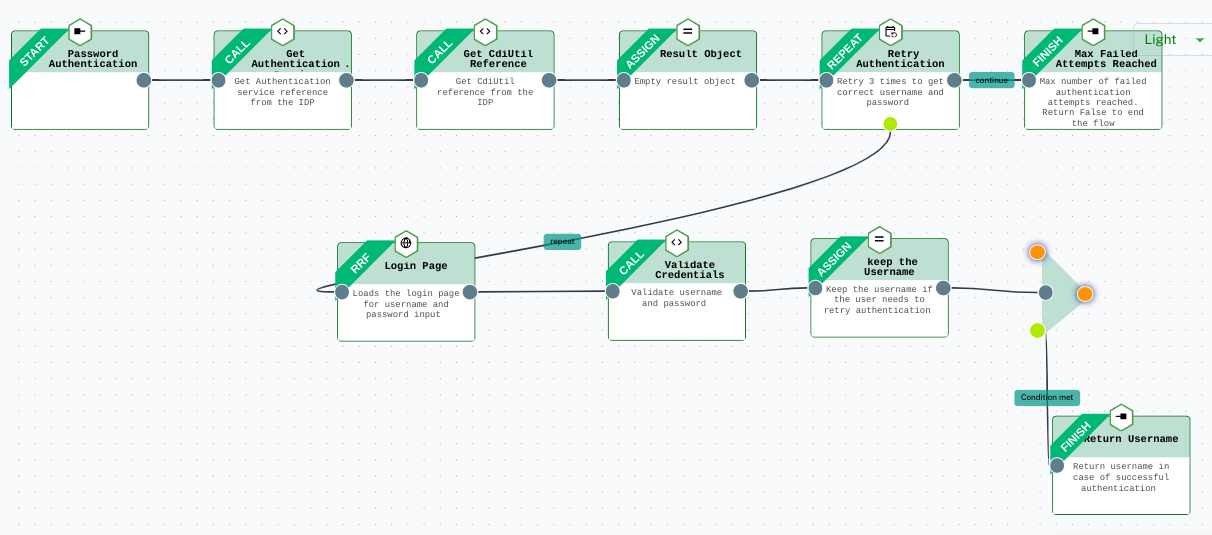
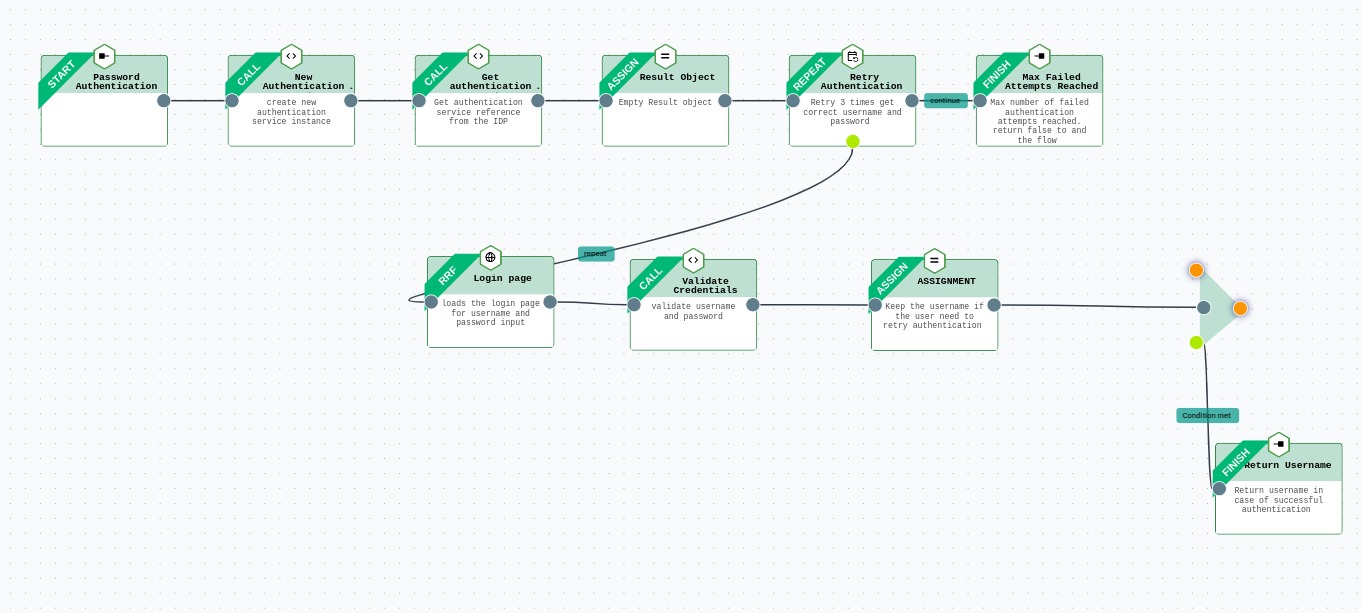
fix(docs): update the flow

diff --git a/docs/janssen-server/developer/agama/quick-start-using-agama-lab.md b/docs/janssen-server/developer/agama/quick-start-using-agama-lab.md
@@ -139,7 +139,7 @@ from this project listing page.
 
     `method name`: `class`
 
-    `assign result to`: `authService`
+    `assign result to`: `authServiceRef`
 
     `title`: `New Authentication Service `
 
@@ -333,27 +333,29 @@ from this project listing page.
     generated code.
 
     ```
-    Flow co.acme.password
+      Flow co.acme.password
         Basepath ""
-    // Get Authentication service reference from the IDP
-    authServiceRef = Call io.jans.server.service.AuthenticationService#class 
-    // Get CdiUtil reference from the IDP
-    cdiUtilRef = Call io.jans.service.cdi.util.CdiUtil#bean authService
-    // Empty result object 
+    // create new authentication service instance
+    authServiceRef = Call io.jans.as.server.service.AuthenticationService#class 
+    // Get authentication service reference from the IDP
+    cdiUtilRef = Call io.jans.service.cdi.util.CdiUtil#bean authServiceRef
+    // Empty result object
     authResult = {}
     // Retry 3 times to get correct username and password 
     Repeat 3 times max
-        // Loads the login page for username and password input 
+        // Loads the login page for username and password input
         creds = RRF "login.ftlh" authResult
-        // Validate username and password 
-        authResult.success = Call cdiUtil#authenticate creds.username creds.password
+        // Validate username and password
+        authResult.success = Call cdiUtilRef authenticate creds.username creds.password
         // Keep the username if the user needs to retry authentication 
-        authResult.uid = "creds.username"
+        authResult.uid = creds.username
+        // check if the authentication was successful 
         When authResult.success is true
               // Return username in case of successful authentication 
               Finish authResult.uid
     // Max number of failed authentication attempts reached. Return False to end the flow
     Finish false
+
     ```
 
 ### Design user interface
